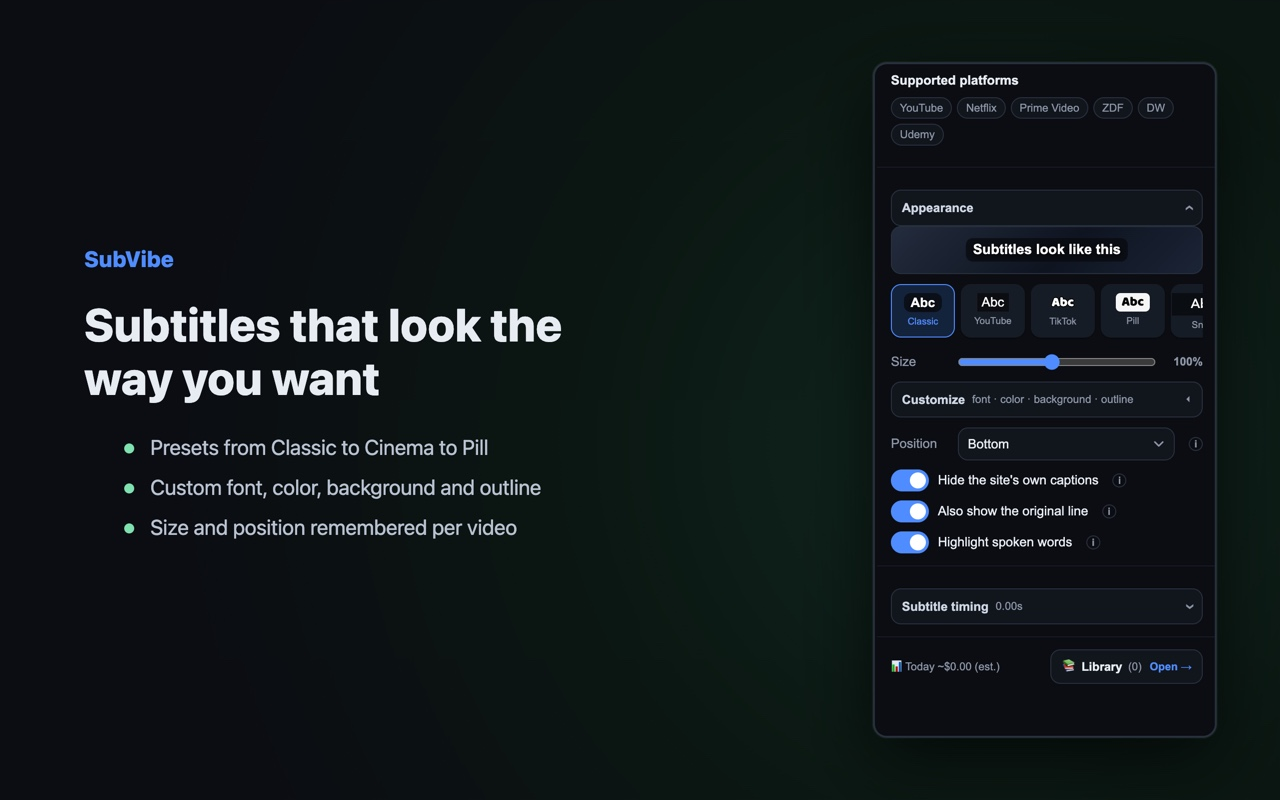
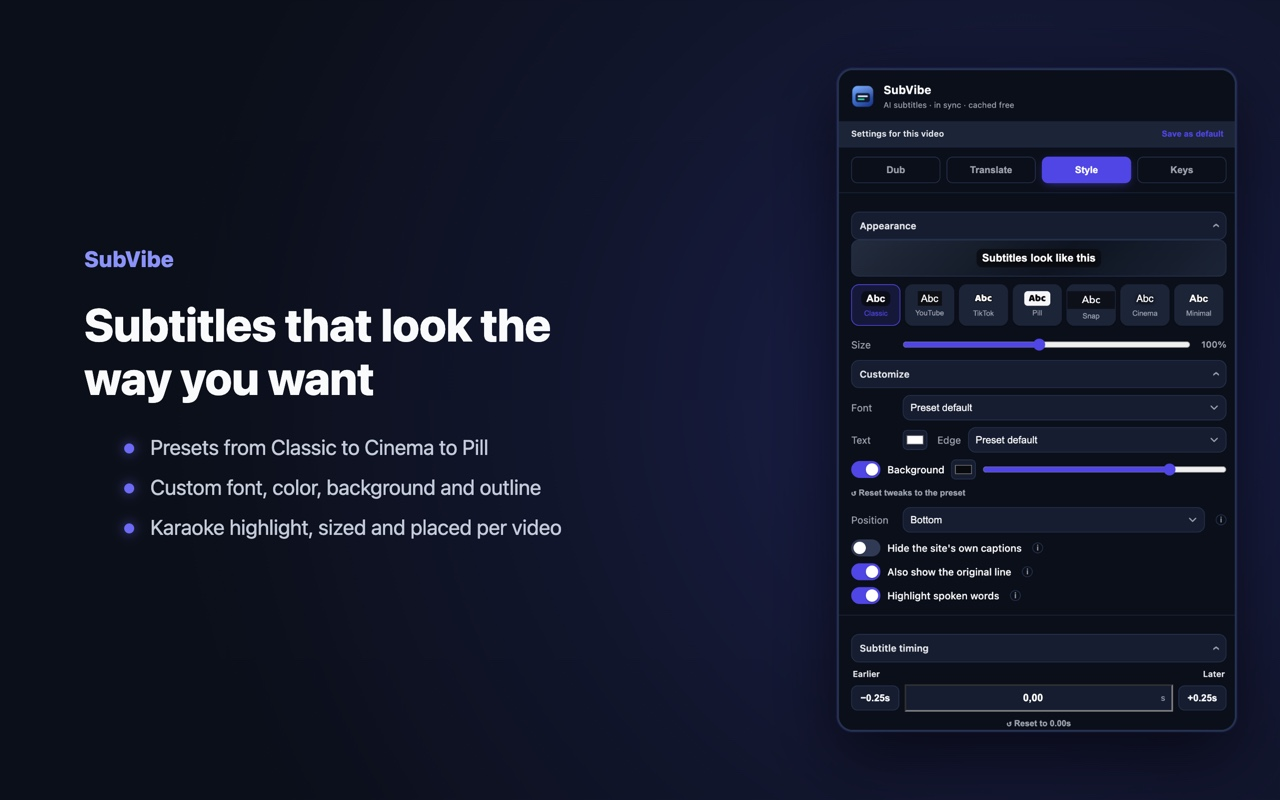
Store screenshots: reshoot the 3 tab tiles on the 1330.2 indigo UI
The Translate/Dub/Style captures were the old dark-green popup at 340px wide; the popup is now 520px and indigo. Recolored the composer board to match (indigo bg + accent), reshot each tab from the current UI (Translate shows the new Off/Original/Translate switch + Claude picker, Dub shows Live Translate, Style shows the full appearance controls), and rewrote the headline copy for 1330.2 (Dub is Live Translate now, not TTS). Captures seed a clip so the brand-name 'Supported platforms' chips never appear — brand-free per the Yellow Argon lesson.

diff --git a/tools/store-screenshots/compose.html b/tools/store-screenshots/compose.html
@@ -7,21 +7,27 @@
   Renders ONE 1280×800 Chrome Web Store screenshot per popup tab.
   Open with ?tab=translate | dub | style, viewport exactly 1280×800, screenshot,
   then downscale the retina capture to 1280×800 (see README.md).
+
+  Board recolored to the 1330.2 indigo theme (bg #0B0F19, accent #4F46E5) to
+  match the redesigned popup. The popup is now 520px wide, so raw-*.png captures
+  are taken at a 520px viewport and the frame scales the whole width down — no
+  horizontal crop, so no brand chips or edges leak in.
 -->
 <style>
   * { margin: 0; box-sizing: border-box; }
   body { width: 1280px; height: 800px; overflow: hidden; display: flex; align-items: center;
-    font-family: -apple-system, "Segoe UI", system-ui, sans-serif; color: #e7ecf3;
-    background: #0b0d12 radial-gradient(circle at 78% 55%, #10261f 0%, #0b1712 38%, #0b0d12 75%); }
+    font-family: -apple-system, "Segoe UI", system-ui, sans-serif; color: #F9FAFB;
+    background: #0B0F19 radial-gradient(circle at 80% 50%, #1b2050 0%, #12162e 40%, #0B0F19 78%); }
   .left { flex: 1; padding: 0 40px 0 84px; }
-  .mark { font-size: 22px; font-weight: 800; letter-spacing: .3px; color: #4f8cff; margin-bottom: 26px; }
-  h1 { font-size: 46px; line-height: 1.16; font-weight: 800; margin-bottom: 30px; max-width: 560px; }
-  li { list-style: none; font-size: 21px; color: #b8c2d1; margin: 15px 0; padding-left: 26px; position: relative; }
-  li::before { content: ""; position: absolute; left: 0; top: 9px; width: 10px; height: 10px; border-radius: 50%; background: #7fe0b0; }
-  .right { flex: none; width: 470px; display: flex; justify-content: center; }
-  .frame { width: 344px; height: 676px; overflow: hidden; border-radius: 14px; border: 2px solid #28303d;
-    box-shadow: 0 24px 70px rgba(0,0,0,.65), 0 0 0 1px rgba(127,224,176,.08); background: #0b0d12; }
-  .frame img { width: 500px; height: auto; margin: 2px 0 0 2px; display: block; } /* crop the 500px viewport to the 340px popup */
+  .mark { font-size: 22px; font-weight: 800; letter-spacing: .3px; color: #8b93f8; margin-bottom: 26px; }
+  h1 { font-size: 46px; line-height: 1.16; font-weight: 800; margin-bottom: 30px; max-width: 560px; letter-spacing: -.5px; }
+  li { list-style: none; font-size: 21px; color: #c3cad8; margin: 15px 0; padding-left: 26px; position: relative; }
+  li::before { content: ""; position: absolute; left: 0; top: 9px; width: 10px; height: 10px; border-radius: 50%;
+    background: #6d6af5; box-shadow: 0 0 12px rgba(109,106,245,.7); }
+  .right { flex: none; width: 486px; display: flex; justify-content: center; }
+  .frame { width: 400px; height: 664px; overflow: hidden; border-radius: 16px; border: 2px solid #24324F;
+    box-shadow: 0 24px 70px rgba(0,0,0,.62), 0 0 0 1px rgba(79,70,229,.18); background: #0B0F19; }
+  .frame img { width: 400px; height: auto; display: block; } /* whole 520px popup scaled to width */
 </style>
 </head>
 <body>
@@ -36,15 +42,15 @@
       translate: { h: "AI subtitles in your language — in sync", b: [
         "Pre-translated ahead of the playhead, never lagging",
         "OpenAI or Claude — your key, your choice of model",
-        "Watched once? Replays are cached and free" ] },
-      dub: { h: "Or let SubVibe speak it for you", b: [
-        "AI voices read the translation over the ducked original",
-        "One voice per speaker, adjustable pace and volume",
-        "Full-video dubs with the cost shown before you pay" ] },
+        "Or just style the video's own captions, free" ] },
+      dub: { h: "Or hear it — live, in your language", b: [
+        "Real-time voice translation, powered by Gemini",
+        "Keeps the original speaker's own voice",
+        "70+ languages, one click to start" ] },
       style: { h: "Subtitles that look the way you want", b: [
         "Presets from Classic to Cinema to Pill",
         "Custom font, color, background and outline",
-        "Size and position remembered per video" ] },
+        "Karaoke highlight, sized and placed per video" ] },
     };
     const tab = new URLSearchParams(location.search).get("tab") || "translate";
     document.getElementById("h").textContent = TABS[tab].h;
